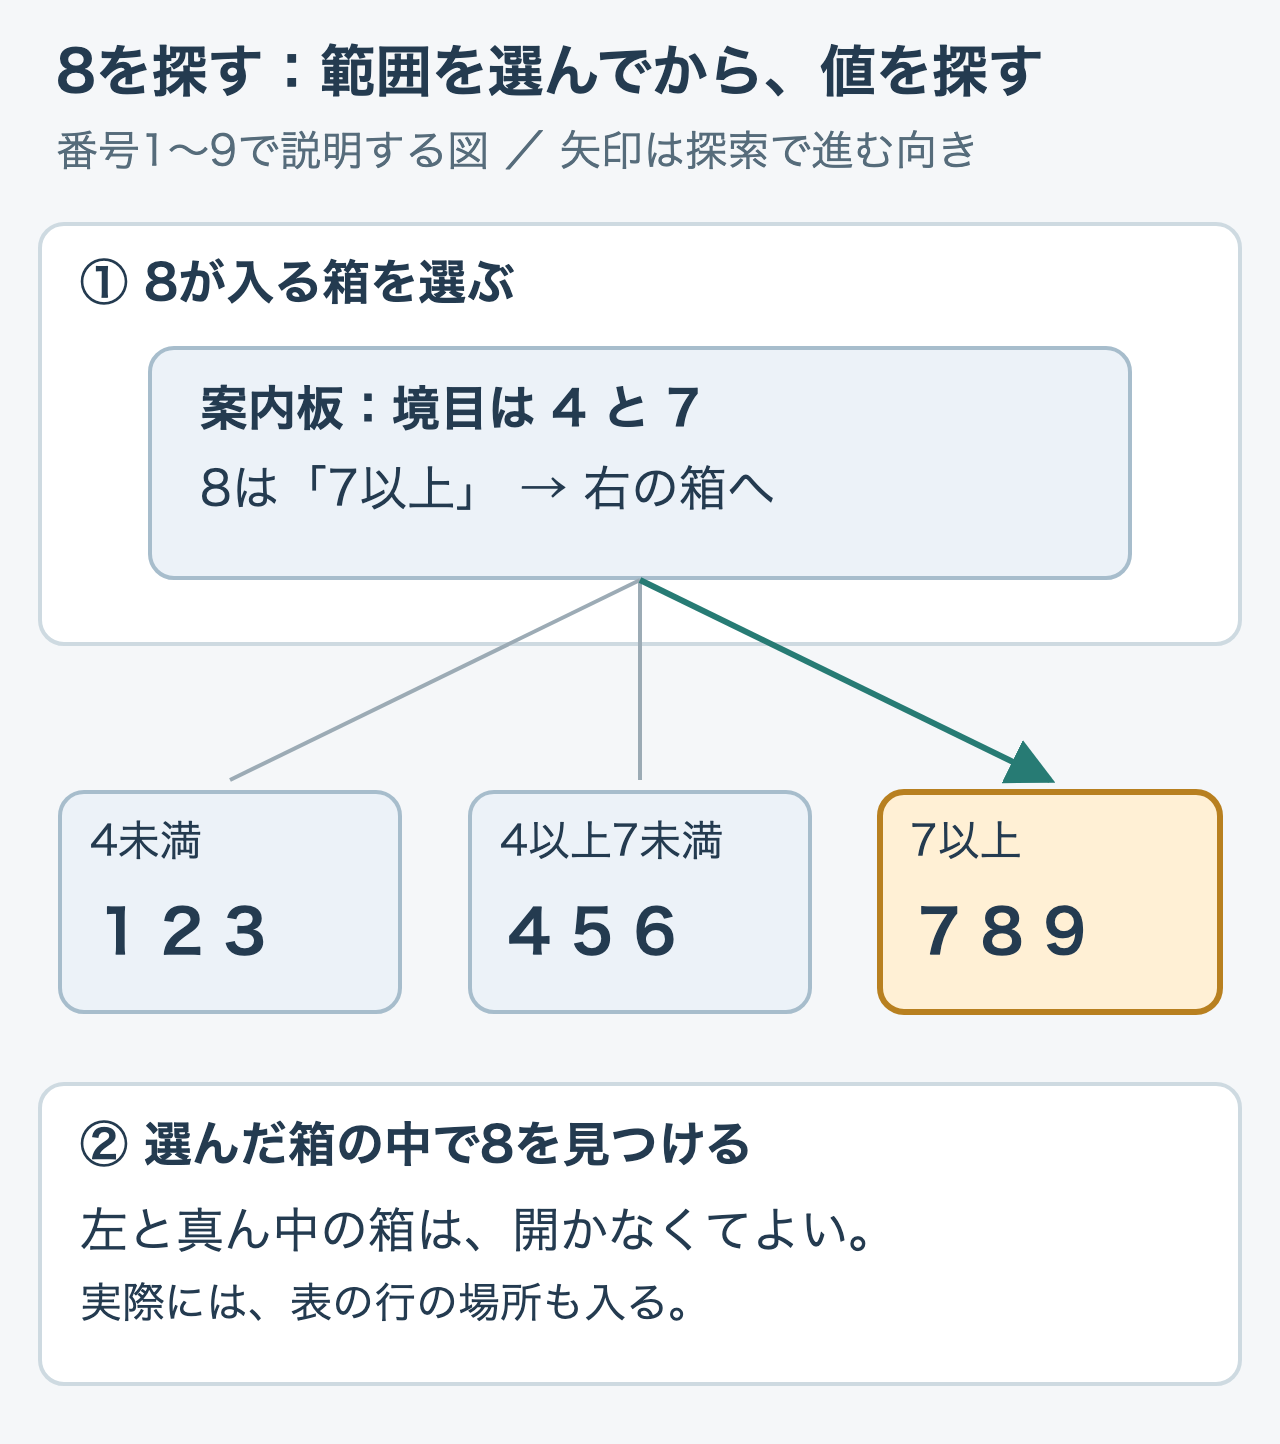
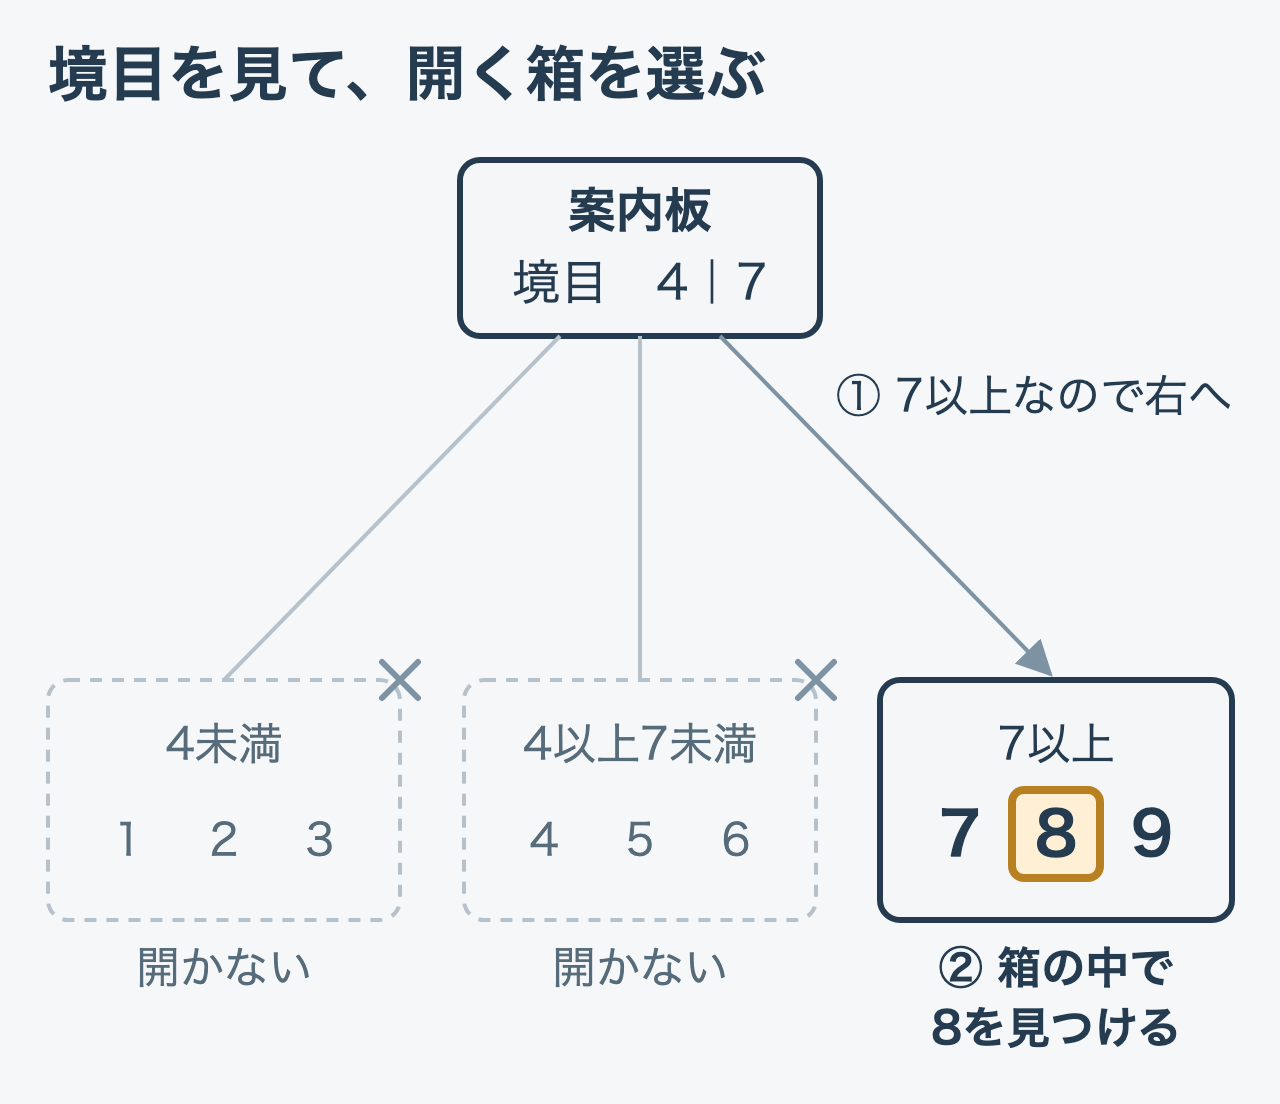
docs(query-journey): 第3章の探し方の図を1本の木にし、開かない箱を破線と×で示す
案内板と三つの箱が別々の枠で、開かない箱も実線だった。案内板から三つの箱へ
枝を伸ばした1本の木にし、開く右の箱を紺の太枠、開かない二つの箱を破線と×に
した。「→」を「だから」の意味で使っていたラベルは「7以上なので右へ」にした。

diff --git a/books/postgresql-query-journey/03-btree-index.md b/books/postgresql-query-journey/03-btree-index.md
@@ -21,8 +21,8 @@ Indexにも100万冊分の情報があるのに、なぜ全件を調べずに探
 
 三つの箱の上に案内板を一枚立て、箱の境目となる4と7を書いておきます。探したい番号が8なら、どの箱を開けばよいでしょうか。
 
-![8は7以上なので右の箱へ進み、その箱の中で8を見つける](/images/postgresql-query-journey/06-btree-path.png)
-*番号1〜9で説明するための図です。矢印は探索で進む向きです。*
+![案内板の境目4と7を見て、8は7以上なので右の箱だけを開き、その中で8を見つける。左と真ん中の箱は開かない](/images/postgresql-query-journey/06-btree-path.png)
+*開くのは右の箱だけで、×を付けた二つの箱は開きません（番号1〜9で説明するための図）。*
 
 8は7以上なので、右の箱へ進みます。その中から8を見つければよく、左と真ん中の箱を開く必要はありません。
 
